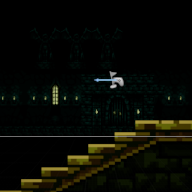
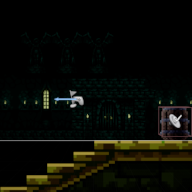
init

diff --git a/Source/TG/Objects/TGMasterObject.h b/Source/TG/Objects/TGMasterObject.h
@@ -19,6 +19,7 @@ struct FObjectBasicStats : public FTableRowBase
 	{
 		objectName = FText::FromString("Object");
 		maxHealth = 3;
+		currentHealth = maxHealth;
 		bIsDamaged = false;
 	}
 
@@ -26,6 +27,8 @@ struct FObjectBasicStats : public FTableRowBase
 		FText objectName;
 	UPROPERTY(EditAnywhere, BlueprintReadWrite)
 		int32 maxHealth;
+	UPROPERTY(EditAnywhere, BlueprintReadWrite)
+		int32 currentHealth;
 	UPROPERTY(EditAnywhere, BlueprintReadWrite)
 		bool bIsDamaged;
 };
@@ -36,8 +39,8 @@ struct FObjectBasicAnimations : public FTableRowBase
 {
 	GENERATED_BODY()
 
-	//object default animation
-	UPROPERTY(EditAnywhere, BlueprintReadWrite)
+		//object default animation
+		UPROPERTY(EditAnywhere, BlueprintReadWrite)
 		class UPaperFlipbook* ObjectIdleAnimation;
 	//when the object is damaged
 	UPROPERTY(EditAnywhere, BlueprintReadWrite)
@@ -56,7 +59,7 @@ USTRUCT(BlueprintType)
 struct FObjectData : public FTableRowBase
 {
 	GENERATED_BODY()
-	UPROPERTY(EditAnywhere, BlueprintReadWrite)
+		UPROPERTY(EditAnywhere, BlueprintReadWrite)
 		FObjectBasicStats objectStats;
 	UPROPERTY(EditAnywhere, BlueprintReadWrite)
 		FObjectBasicAnimations objectBasicAnimations;
@@ -68,33 +71,33 @@ class TG_API ATGMasterObject : public AActor, public IInteract, public ICanBeDam
 	GENERATED_BODY()
 
 public:
-		ATGMasterObject();
+	ATGMasterObject();
 
-		UPROPERTY(VisibleAnywhere, BlueprintReadWrite, Category = AMesh)
-			class USceneComponent* objectRootComp;
-// 		//since we're using PaperCharacter for objects and capsulecollision is crap, making boxcollisioncomp
-		UPROPERTY(VisibleAnywhere, BlueprintReadWrite, Category = AMesh)
-			class UBoxComponent* boxCollisionComp;
-		UPROPERTY(VisibleAnywhere, BlueprintReadWrite, Category = AMesh)
-			class UPaperFlipbookComponent* SpriteComp;
-		UPROPERTY(VisibleAnywhere, BlueprintReadWrite, Category = AMesh)
-			class UAudioComponent* audioComp;
-
-		
+	UPROPERTY(VisibleAnywhere, BlueprintReadWrite, Category = AMesh)
+		class USceneComponent* objectRootComp;
+	// 		//since we're using PaperCharacter for objects and capsulecollision is crap, making boxcollisioncomp
+	UPROPERTY(VisibleAnywhere, BlueprintReadWrite, Category = AMesh)
+		class UBoxComponent* boxCollisionComp;
+	UPROPERTY(VisibleAnywhere, BlueprintReadWrite, Category = AMesh)
+		class UPaperFlipbookComponent* SpriteComp;
+	UPROPERTY(VisibleAnywhere, BlueprintReadWrite, Category = AMesh)
+		class UAudioComponent* audioComp;
 
 
-		/* ###########################################################
-						Interface functions
-	 ########################################################### */
-		virtual void OnEnterPlayerRadius(AActor* iPlayer) override;
-		virtual void OnLeavePlayerRadius(AActor* iPlayer) override;
-		virtual void Interact(AActor* iPlayer) override;
-		virtual void OnGetDamaged(float iBaseDamage, AActor* iAttacker) override;
 
 
-		virtual void OnConstruction(const FTransform& Transform) override;
+	/* ###########################################################
+					Interface functions
+ ########################################################### */
+	virtual void OnEnterPlayerRadius(AActor* iPlayer) override;
+	virtual void OnLeavePlayerRadius(AActor* iPlayer) override;
+	virtual void Interact(AActor* iPlayer) override;
+	virtual void OnGetDamaged(int32 iBaseDamage, AActor* iAttacker) override;
 
-		/* #########################END############################## */
+
+	virtual void OnConstruction(const FTransform& Transform) override;
+
+	/* #########################END############################## */
 
 
 protected:
@@ -103,36 +106,46 @@ protected:
 	/* ###########################################################
 						Initialize & References
 	 ########################################################### */
-	//init sprites etc ingame
-	void PassDataFromTableToObjectVariables();
+	 //init sprites etc ingame
+
 	void StartInitializeTimer();
 	void InitializeDelayed();
 	void InitializeDataTableInfo();
 	void InitializeReferences();
 
+	void PassDataFromTableToObjectVariables();
+
 	UPROPERTY(EditAnywhere)
-	float initializeTimer = 0.3f;
-	 /* #########################END############################## */
+		float initializeTimer;
+	/* #########################END############################## */
 
 
-	/* ###########################################################
-						Data
-	 ########################################################### */
-	
+   /* ###########################################################
+					   Data
+	########################################################### */
+
 	void SetDataTableObjectDataRowNames();
 
 	UPROPERTY()
 		class UDataTable* DataTableObjectData;
 	UPROPERTY()
-		TArray<FName> DataTableObjectRowNames;	 
-	 /*Enter the row you want the object to use starts from 0, could also make it a string later*/
+		TArray<FName> DataTableObjectRowNames;
+	/*Enter the row you want the object to use starts from 0, could also make it a string later*/
 	UPROPERTY(EditAnywhere, BlueprintReadWrite, Category = AData)
 		int32 DTObjectStatsRowNumber;
+	//ANIMATIONS
 	UPROPERTY(EditAnywhere, BlueprintReadWrite, Category = AData)
 		FObjectBasicAnimations currentBasicAnimations;
+	//STATS
 	UPROPERTY(EditAnywhere, BlueprintReadWrite, Category = AData)
 		FObjectBasicStats currentBasicStats;
+	//SOUND?
 
 	 /* #########################END############################## */
 
+
+protected:
+
+	UPROPERTY(EditAnywhere)
+		float objectDeathTimer;
 };

diff --git a/Source/TG/Objects/TGMasterObject.cpp b/Source/TG/Objects/TGMasterObject.cpp
@@ -38,6 +38,19 @@ ATGMasterObject::ATGMasterObject()
 
 	audioComp = CreateDefaultSubobject<UAudioComponent>(TEXT("AudioComponent"));
 	audioComp->SetupAttachment(objectRootComp);
+
+
+
+
+
+
+	/* ###########################################################
+						DEFAULT VALUES	
+	 ########################################################### */
+		initializeTimer = 0.3f;
+		objectDeathTimer = 5.0f;
+		
+	 /* #########################END############################## */
 	
 
 }
@@ -57,9 +70,26 @@ void ATGMasterObject::Interact(AActor* iPlayer)
 	UE_LOG(LogTemp, Warning, TEXT("Interacted"));
 }
 
-void ATGMasterObject::OnGetDamaged(float iBaseDamage, AActor* iAttacker)
+void ATGMasterObject::OnGetDamaged(int32 iBaseDamage, AActor* iAttacker)
 {
+	if (iBaseDamage <= 0)
+	{
+		currentBasicStats.currentHealth -= iBaseDamage;
+		if (currentBasicStats.currentHealth <= 0)
+		{
+			//play death animation and in 10 seconds fall through the ground and destroy self
+			this->SpriteComp->SetLooping(false);
+			this->SpriteComp->SetFlipbook(currentBasicAnimations.ObjectDestroyedAnimation);
 
+			//give xp & drop loot?
+			
+			//here we can add some effect in future for disappearing corpses
+
+			//destroys the object in set time
+			this->SetLifeSpan(objectDeathTimer);
+
+		}
+	}
 }
 
 void ATGMasterObject::OnConstruction(const FTransform& Transform)
@@ -79,11 +109,16 @@ void ATGMasterObject::BeginPlay()
 	StartInitializeTimer();
 	InitializeReferences();
 	SetDataTableObjectDataRowNames();
+	
 }
 
 void ATGMasterObject::PassDataFromTableToObjectVariables()
 {
+	//pass the sprite
 	this->SpriteComp->SetFlipbook(currentBasicAnimations.ObjectIdleAnimation);
+
+	//pass stats
+	
 
 }
 
@@ -130,3 +165,4 @@ void ATGMasterObject::SetDataTableObjectDataRowNames()
 		DataTableObjectRowNames = DataTableObjectData->GetRowNames();
 	}
 }
+

diff --git a/Source/TG/TGCharacter.cpp b/Source/TG/TGCharacter.cpp
@@ -54,7 +54,7 @@ ATGCharacter::ATGCharacter()
 
 	// Configure character movement
 	GetCharacterMovement()->GravityScale = 3.0f;
-	GetCharacterMovement()->AirControl = 0;
+	GetCharacterMovement()->AirControl = 0.1;
 	GetCharacterMovement()->JumpZVelocity = 1000.f;
 	GetCharacterMovement()->GroundFriction = 3.0f;
 	GetCharacterMovement()->MaxWalkSpeed = 600.0f;
@@ -76,13 +76,25 @@ ATGCharacter::ATGCharacter()
 	currentState = ECharacterStates::IDLE;
 
 	/*currentFlipbook = idleAnimation;*/
+
+
+
+	/* ###########################################################
+						DEFAULT VALUES
+	 ########################################################### */
+	AttackAnimLength = 1.0f;
+	InteractDistance = 300.0f;
+
+
+	 /* #########################END############################## */
 }
 
-void ATGCharacter::OnGetDamaged(float iBaseDamage, AActor* iAttacker)
+
+
+void ATGCharacter::OnGetDamaged(int32 iBaseDamage, AActor* iAttacker)
 {
-	UE_LOG(LogTemp, Warning, TEXT("Got Damaged"));
-}
 
+}
 
 void ATGCharacter::MoveRight(float Value)
 {
@@ -118,7 +130,7 @@ void ATGCharacter::MoveRight(float Value)
 void ATGCharacter::BasicAttack()
 {
 	UE_LOG(LogTemp, Error, TEXT("atk"));
-	if (currentState != ECharacterStates::ATTACKING && 
+	if (currentState != ECharacterStates::ATTACKING &&
 		currentState != ECharacterStates::JUMPING)
 	{
 		currentState = ECharacterStates::ATTACKING;
@@ -223,7 +235,7 @@ void ATGCharacter::Interact()
 {
 	FVector Start;
 	FVector End;
-	
+
 	FVector PlayerEyesLoc;
 	FRotator PlayerEyesRot;
 

diff --git a/Source/TG/TGCharacter.h b/Source/TG/TGCharacter.h
@@ -104,6 +104,8 @@ public:
 
 
 
+
+
 public:
 	ATGCharacter();
 
@@ -114,7 +116,7 @@ public:
 
 
 
-	virtual void OnGetDamaged(float iBaseDamage, AActor* iAttacker) override;
+	virtual void OnGetDamaged(int32 iBaseDamage, AActor* iAttacker) override;
 
 protected:
 
@@ -137,16 +139,16 @@ protected:
 protected:
 
 	UPROPERTY(EditDefaultsOnly, BlueprintReadWrite, Category = ACombat)
-		float AttackAnimLength = 1.0f;
+		float AttackAnimLength;
 
 
 	 /* #########################END############################## */
 
 	/* ###########################################################
-						Debug values
+						Debug 
 	 ########################################################### */
 	UPROPERTY(EditAnywhere, BlueprintReadWrite)
-		float InteractDistance = 300;
+		float InteractDistance;
 
 	UPROPERTY(EditAnywhere, BlueprintReadWrite)
 		AActor* interactedActor;

diff --git a/Source/TG/Interfaces/CanBeDamaged.h b/Source/TG/Interfaces/CanBeDamaged.h
@@ -23,5 +23,5 @@ class TG_API ICanBeDamaged
 	// Add interface functions to this class. This is the class that will be inherited to implement this interface.
 public:
 
-	virtual void OnGetDamaged(float iBaseDamage, AActor* iAttacker) = 0;
+	virtual void OnGetDamaged(int32 iBaseDamage, AActor* iAttacker) = 0;
 };
